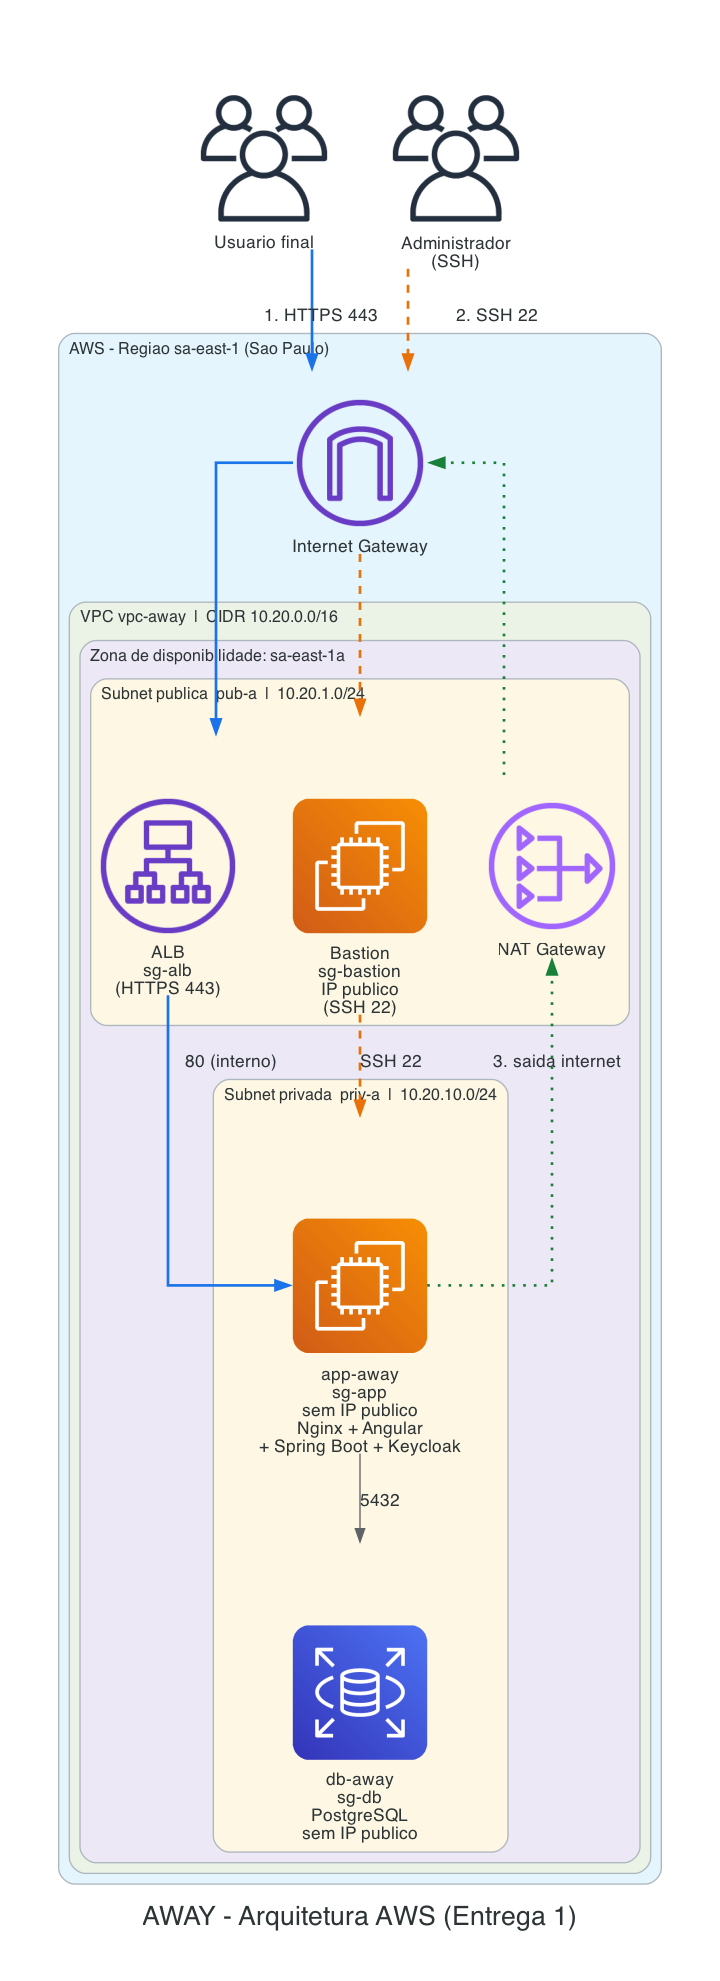
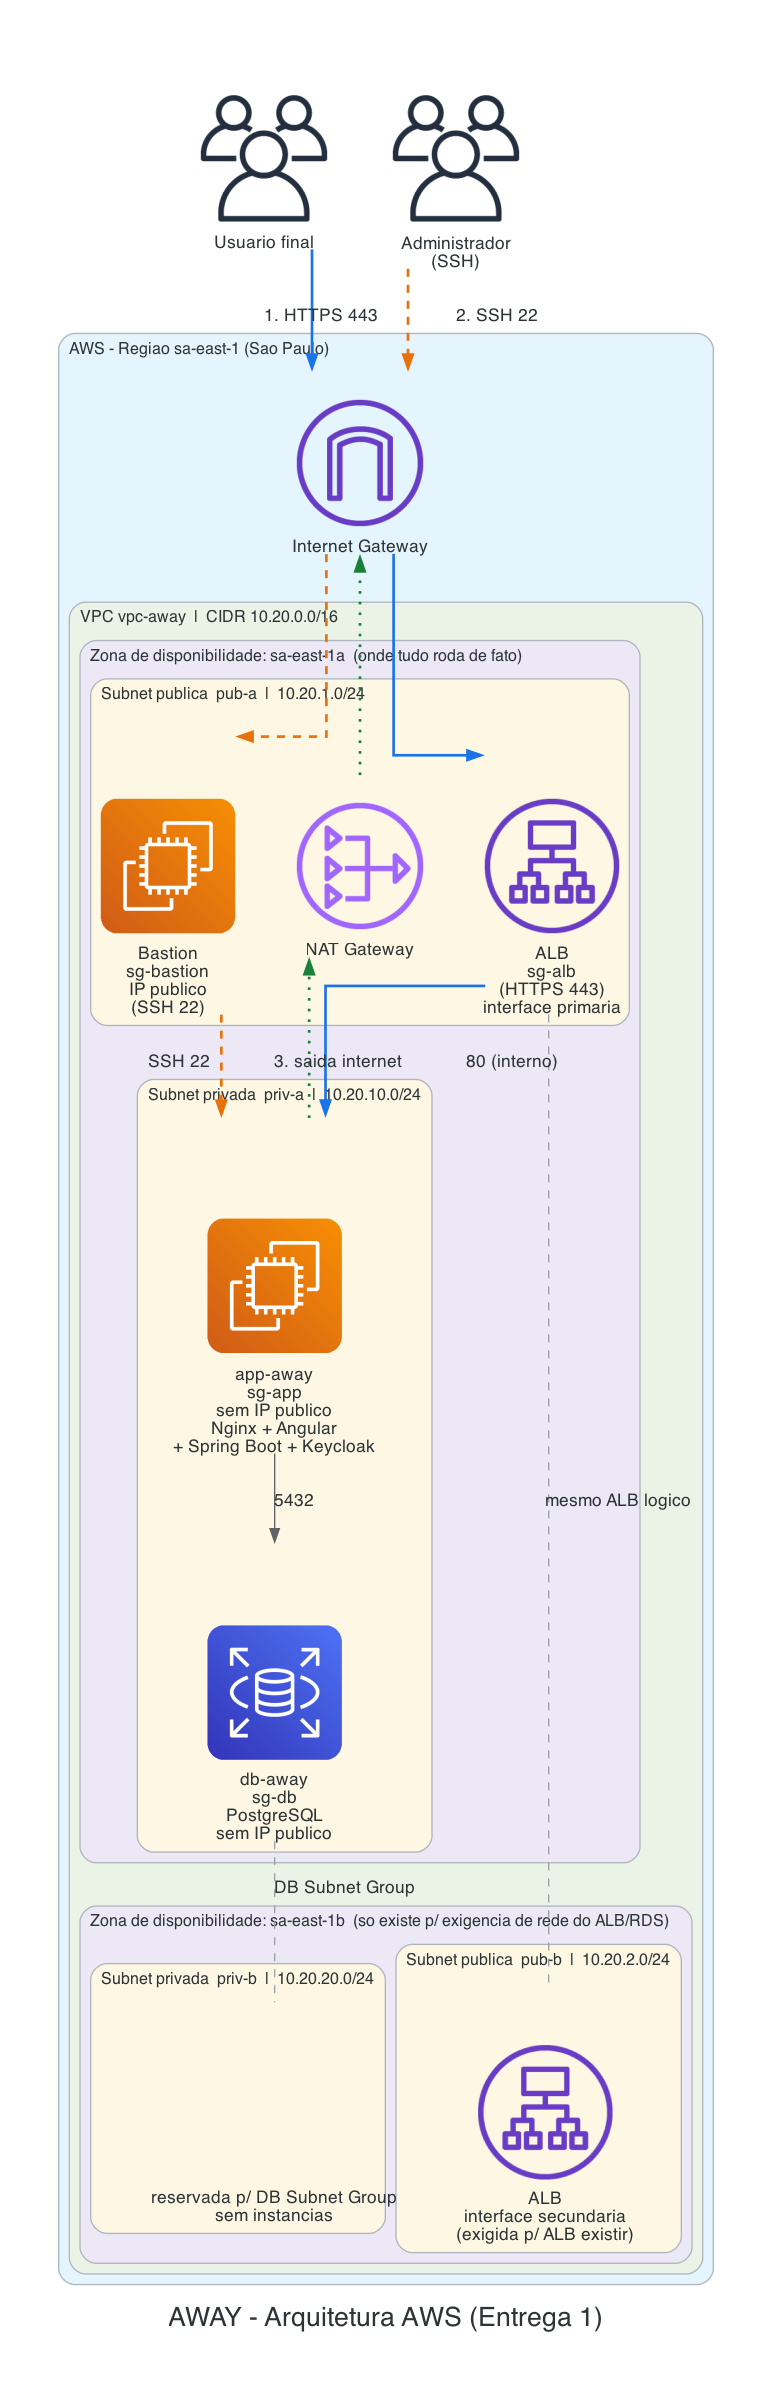
fix: adiciona segunda AZ exigida pelo ALB e pelo DB Subnet Group
O ALB da AWS exige subnets em pelo menos duas zonas de disponibilidade
para ser criado, e o RDS exige um DB Subnet Group cobrindo pelo menos
duas AZs mesmo em deploy Single-AZ. Adiciona pub-b (10.20.2.0/24) e
priv-b (10.20.20.0/24) em sa-east-1b somente para satisfazer essas
exigencias estruturais - nenhuma instancia roda em sa-east-1b, a
arquitetura continua sem alta disponibilidade real (secao 5.1/5.10).

Atualiza diagrama, plano de enderecamento, tabelas de rota e riscos.

Changed region(s): [[0.0611, 0.0308, 0.9472, 0.9854]]

diff --git a/docs/diagramas/arquitetura.py b/docs/diagramas/arquitetura.py
@@ -15,7 +15,7 @@ from diagrams.aws.compute import EC2
 from diagrams.aws.database import RDS
 from diagrams.aws.network import ALB, InternetGateway, NATGateway
 from diagrams.aws.general import Users
-from diagrams.aws.security import IdentityAndAccessManagementIamPermissions as SGIcon
+from diagrams.generic.blank import Blank
 
 graph_attr = {
     "fontsize": "20",
@@ -39,10 +39,10 @@ with Diagram(
 
         with Cluster("VPC vpc-away  |  CIDR 10.20.0.0/16"):
 
-            with Cluster("Zona de disponibilidade: sa-east-1a"):
+            with Cluster("Zona de disponibilidade: sa-east-1a  (onde tudo roda de fato)"):
 
                 with Cluster("Subnet publica  pub-a  |  10.20.1.0/24"):
-                    alb = ALB("ALB\nsg-alb\n(HTTPS 443)")
+                    alb = ALB("ALB\nsg-alb\n(HTTPS 443)\ninterface primaria")
                     bastion = EC2("Bastion\nsg-bastion\nIP publico\n(SSH 22)")
                     nat = NATGateway("NAT Gateway")
 
@@ -52,6 +52,17 @@ with Diagram(
                         "Nginx + Angular\n+ Spring Boot + Keycloak"
                     )
                     db = RDS("db-away\nsg-db\nPostgreSQL\nsem IP publico")
+
+            with Cluster("Zona de disponibilidade: sa-east-1b  (so existe p/ exigencia de rede do ALB/RDS)"):
+
+                with Cluster("Subnet publica  pub-b  |  10.20.2.0/24"):
+                    alb_b = ALB("ALB\ninterface secundaria\n(exigida p/ ALB existir)")
+
+                with Cluster("Subnet privada  priv-b  |  10.20.20.0/24"):
+                    reservada = Blank("reservada p/ DB Subnet Group\nsem instancias")
+
+            alb - Edge(style="dashed", color="#9aa0a6", label="mesmo ALB logico") - alb_b
+            db - Edge(style="dashed", color="#9aa0a6", label="DB Subnet Group") - reservada
 
         # Fluxo 1: usuario final acessando a aplicacao
         usuario >> Edge(label="1. HTTPS 443", color="#1a73e8", penwidth="2") >> igw

diff --git a/docs/arquitetura.md b/docs/arquitetura.md
@@ -20,7 +20,7 @@
 
 **Requisitos não funcionais assumidos.**
 - **Usuários simultâneos**: baixo (estimativa de 5 a 15 usuários simultâneos em horário de pico), compatível com uma instituição de porte pequeno/médio.
-- **Disponibilidade esperada**: **esta entrega não oferece alta disponibilidade.** Todos os recursos ficam em uma única zona de disponibilidade, com uma única instância de aplicação e um banco de dados single-AZ. Uma falha de instância, de AZ ou uma janela de manutenção do RDS single-AZ derruba o sistema até recuperação manual ou automática (RDS) — ver seção 5.10 (Riscos).
+- **Disponibilidade esperada**: **esta entrega não oferece alta disponibilidade.** Toda a computação e os dados ficam em uma única zona de disponibilidade (`sa-east-1a`): uma única instância de aplicação e um banco de dados single-AZ. Uma segunda AZ (`sa-east-1b`) existe na rede apenas para satisfazer exigências estruturais da AWS (o Application Load Balancer exige subnets em pelo menos duas AZs, e o DB Subnet Group do RDS também — ver seção 5.3), mas não há nenhuma instância, réplica nem failover real rodando nela. Uma falha de instância, da AZ `sa-east-1a` ou uma janela de manutenção do RDS single-AZ derruba o sistema até recuperação manual ou automática (RDS) — ver seção 5.10 (Riscos).
 - **Consistência de dados**: forte (RDS PostgreSQL, transacional), sem necessidade de consistência eventual.
 
 ## 5.2 Diagrama de arquitetura
@@ -30,11 +30,11 @@
 Fonte editável (diagrams-as-code): [`diagramas/arquitetura.py`](diagramas/arquitetura.py).
 
 O diagrama contém:
-- Provedor (AWS), região (`sa-east-1` — São Paulo) e zona de disponibilidade (`sa-east-1a`, única nesta entrega).
+- Provedor (AWS), região (`sa-east-1` — São Paulo) e duas zonas de disponibilidade: `sa-east-1a` (onde roda toda a computação e os dados) e `sa-east-1b` (existe só para satisfazer os requisitos de rede do ALB e do RDS — ver seção 5.3).
 - VPC `vpc-away` com CIDR `10.20.0.0/16`.
-- Sub-rede pública `pub-a` (`10.20.1.0/24`) e sub-rede privada `priv-a` (`10.20.10.0/24`).
+- Quatro sub-redes: `pub-a` (`10.20.1.0/24`) e `priv-a` (`10.20.10.0/24`) em `sa-east-1a`; `pub-b` (`10.20.2.0/24`) e `priv-b` (`10.20.20.0/24`) em `sa-east-1b`.
 - Internet Gateway e NAT Gateway.
-- Instâncias/serviços com sub-rede, tipo e IP público indicados: Bastion (pública, IP público), ALB (pública, IP público/DNS), instância de aplicação `app-away` (privada, sem IP público), RDS `db-away` (privada, sem IP público).
+- Instâncias/serviços com sub-rede, tipo e IP público indicados: Bastion (pública, `pub-a`, IP público), ALB (pública, com uma interface em `pub-a` e outra em `pub-b` — exigência da AWS, não escolha de HA —, IP público/DNS), instância de aplicação `app-away` (privada, `priv-a`, sem IP público), RDS `db-away` (privada, associada a um DB Subnet Group que inclui `priv-a` e `priv-b`, mas rodando fisicamente só em `priv-a`, sem IP público). `priv-b` não tem nenhuma instância nem réplica — existe vazia, reservada apenas para o DB Subnet Group.
 - Grupos de segurança aplicados a cada recurso (`sg-bastion`, `sg-alb`, `sg-app`, `sg-db`).
 - Três fluxos numerados:
   1. **Usuário final** → Internet Gateway → ALB (HTTPS 443) → instância de aplicação (porta 80, interno).
@@ -46,13 +46,21 @@ O diagrama contém:
 | Recurso | Nome | CIDR | Zona | Tipo | Finalidade |
 |---|---|---|---|---|---|
 | Rede virtual | `vpc-away` | `10.20.0.0/16` | - | - | Rede do projeto |
-| Sub-rede | `pub-a` | `10.20.1.0/24` | `sa-east-1a` | Pública | Bastion, NAT Gateway, ALB |
+| Sub-rede | `pub-a` | `10.20.1.0/24` | `sa-east-1a` | Pública | Bastion, NAT Gateway, ALB (interface primária) |
 | Sub-rede | `priv-a` | `10.20.10.0/24` | `sa-east-1a` | Privada | Aplicação (`app-away`), banco (`db-away`) |
+| Sub-rede | `pub-b` | `10.20.2.0/24` | `sa-east-1b` | Pública | ALB (segunda interface — exigência da AWS) |
+| Sub-rede | `priv-b` | `10.20.20.0/24` | `sa-east-1b` | Privada | Reservada para o DB Subnet Group do RDS; sem instâncias |
+
+**Por que existem `pub-b` e `priv-b` se a arquitetura é single-AZ.** Dois serviços gerenciados da AWS têm uma exigência estrutural de rede que independe de a arquitetura ser ou não de alta disponibilidade:
+- um **Application Load Balancer precisa de subnets em pelo menos duas zonas de disponibilidade** para ser criado, mesmo que só exista um alvo (target) rodando em uma delas;
+- um **RDS precisa de um DB Subnet Group que cubra pelo menos duas AZs**, mesmo quando a instância do banco é Single-AZ (não Multi-AZ).
+
+Por isso `pub-b` e `priv-b` existem na rede, mas **nenhuma instância de aplicação nem réplica de banco roda nelas** — `priv-b` fica vazia, e `pub-b` só hospeda a segunda interface de rede do ALB. Isso não é alta disponibilidade real (ver seção 5.1 e 5.10): se `sa-east-1a` cair, a aplicação e o banco caem juntos, porque é lá que eles de fato rodam.
 
 **Justificativa dos tamanhos.**
-- **VPC `/16`** (65.536 endereços): folga generosa para a Entrega 2, que deve adicionar uma segunda zona de disponibilidade (`pub-b`/`priv-b`) para alta disponibilidade, sem precisar renumerar a rede existente.
-- **Sub-redes `/24`** (256 endereços cada, 251 utilizáveis): nesta entrega só existem 4 recursos no total (bastion, NAT Gateway, ALB e a instância/RDS), mas um `/24` é o menor tamanho que ainda deixa espaço confortável para o ALB (que pode consumir múltiplos ENIs ao escalar) e para futuras instâncias, sem risco de esgotar endereços.
-- **Sem sobreposição**: `10.20.1.0/24` e `10.20.10.0/24` não se sobrepõem entre si nem com o restante do bloco `/16`.
+- **VPC `/16`** (65.536 endereços): folga generosa para a Entrega 2, que deve expandir o uso de `sa-east-1b` (e talvez adicionar uma terceira AZ) para alta disponibilidade real, sem precisar renumerar a rede existente.
+- **Sub-redes `/24`** (256 endereços cada, 251 utilizáveis): nesta entrega há poucos recursos (bastion, NAT Gateway, ALB, a instância de aplicação e o RDS), mas um `/24` é o menor tamanho que ainda deixa espaço confortável para o ALB (que pode consumir múltiplos ENIs ao escalar) e para futuras instâncias, sem risco de esgotar endereços.
+- **Sem sobreposição**: `10.20.1.0/24`, `10.20.2.0/24`, `10.20.10.0/24` e `10.20.20.0/24` não se sobrepõem entre si nem com o restante do bloco `/16`.
 
 **Endereços reservados pela AWS.** Em cada sub-rede a AWS reserva 5 endereços (não disponíveis para uso): o endereço de rede, o roteador da VPC (+1), o DNS da Amazon (+2), um endereço reservado para uso futuro (+3) e o endereço de broadcast (último, embora VPCs não usem broadcast). Em uma sub-rede `/24` isso deixa **251 endereços utilizáveis**.
 
@@ -62,8 +70,14 @@ O diagrama contém:
 |---|---|---|
 | `pub-a` (pública) | `10.20.0.0/16` | local |
 | `pub-a` (pública) | `0.0.0.0/0` | Internet Gateway |
+| `pub-b` (pública) | `10.20.0.0/16` | local |
+| `pub-b` (pública) | `0.0.0.0/0` | Internet Gateway |
 | `priv-a` (privada) | `10.20.0.0/16` | local |
 | `priv-a` (privada) | `0.0.0.0/0` | NAT Gateway (em `pub-a`) |
+| `priv-b` (privada) | `10.20.0.0/16` | local |
+| `priv-b` (privada) | `0.0.0.0/0` | NAT Gateway (em `pub-a`) |
+
+`pub-a`/`pub-b` compartilham a mesma tabela de rotas ("pública"), e `priv-a`/`priv-b` compartilham a mesma tabela "privada" — não é necessário criar quatro tabelas distintas, duas bastam (uma associada às duas sub-redes públicas, outra às duas privadas).
 
 **O que aconteceria sem a rota `0.0.0.0/0 → NAT Gateway` na sub-rede privada:** a instância de aplicação continuaria acessível internamente (ALB conseguiria alcançá-la, o bastion conseguiria SSH nela, ela conseguiria falar com o RDS — tudo isso via a rota `local`), mas perderia qualquer capacidade de iniciar conexões para fora da VPC. Na prática, `apt update`, download de imagens Docker, ou qualquer chamada a um serviço externo feita pela aplicação falhariam por timeout, já que os pacotes de resposta não teriam como retornar sem um caminho de saída roteável para a internet.
 
@@ -148,7 +162,7 @@ Esse é o valor que o grupo efetivamente pagaria pela Entrega 2, dado que o ambi
 
 ## 5.10 Riscos e limitações
 
-1. **Único ponto de falha: zona de disponibilidade única (`sa-east-1a`).** Todos os recursos — bastion, ALB, instância de aplicação e RDS — estão na mesma AZ. Uma interrupção dessa AZ (rara, mas já aconteceu na AWS) derruba o sistema inteiro simultaneamente, sem failover automático para outra AZ. Impacto: indisponibilidade total até a AZ ser restaurada pela AWS ou até o grupo reconstruir manualmente a infraestrutura em outra AZ.
+1. **Único ponto de falha: toda a computação e os dados estão em uma única zona de disponibilidade (`sa-east-1a`).** Bastion, NAT Gateway, a instância de aplicação e o RDS rodam todos em `sa-east-1a`. A segunda AZ (`sa-east-1b`) existe só porque o ALB e o DB Subnet Group do RDS exigem presença de rede em duas AZs (seção 5.3) — ela não hospeda nenhuma instância nem réplica. Uma interrupção de `sa-east-1a` (rara, mas já aconteceu na AWS) derruba o sistema inteiro simultaneamente, sem failover automático, porque não há nada rodando em `sa-east-1b` para assumir. Impacto: indisponibilidade total até a AZ ser restaurada pela AWS ou até o grupo reconstruir manualmente a infraestrutura em `sa-east-1b`.
 
 2. **Instância de aplicação única, sem redundância.** Não há Auto Scaling nem uma segunda instância atrás do ALB. Se a instância `app-away` falhar (pane de kernel, erro de deploy, instância corrompida), a aplicação inteira fica fora do ar até alguém notar e recriar a instância manualmente — não há health check com substituição automática. Impacto: tempo de indisponibilidade não planejado, dependente de intervenção humana.
 
